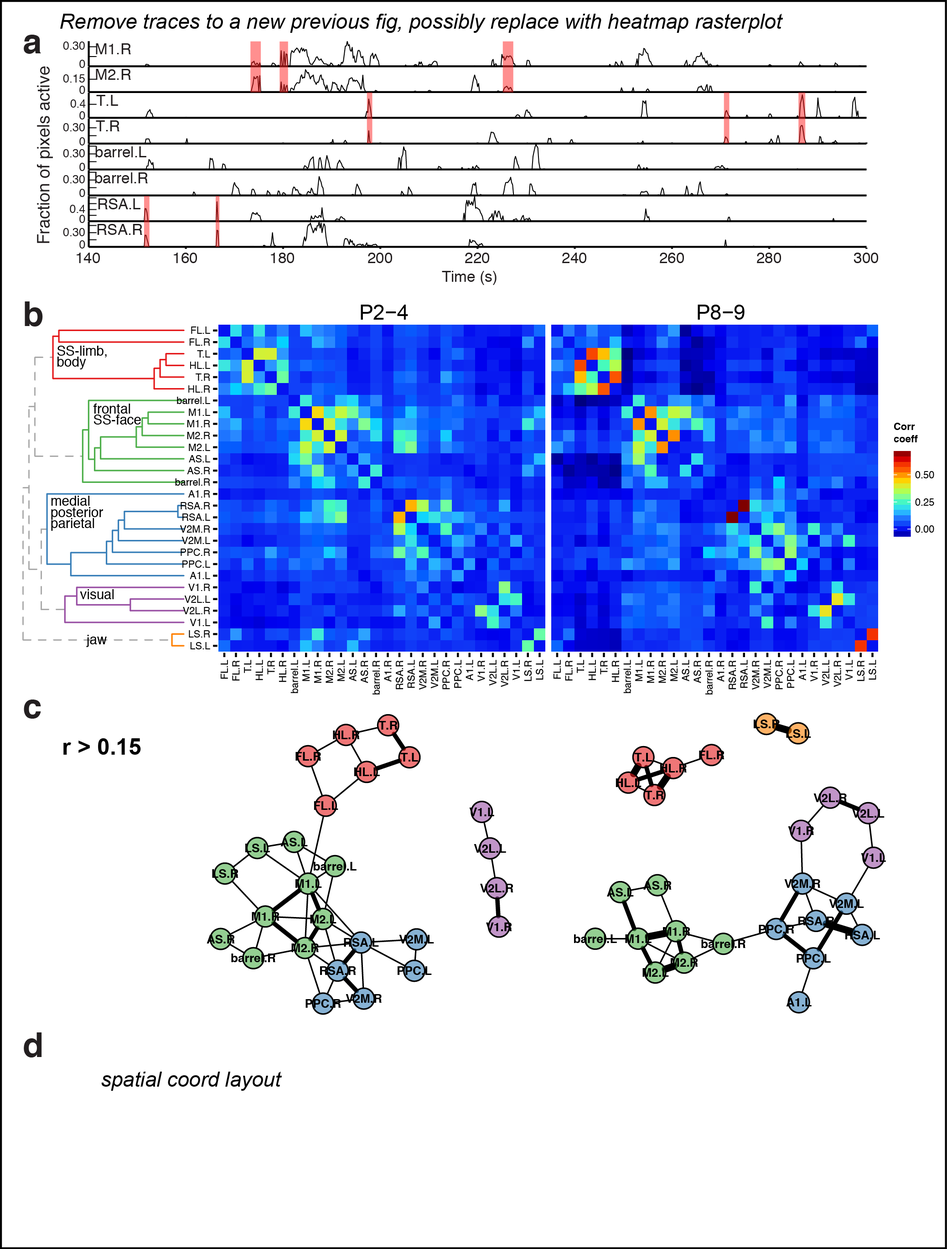
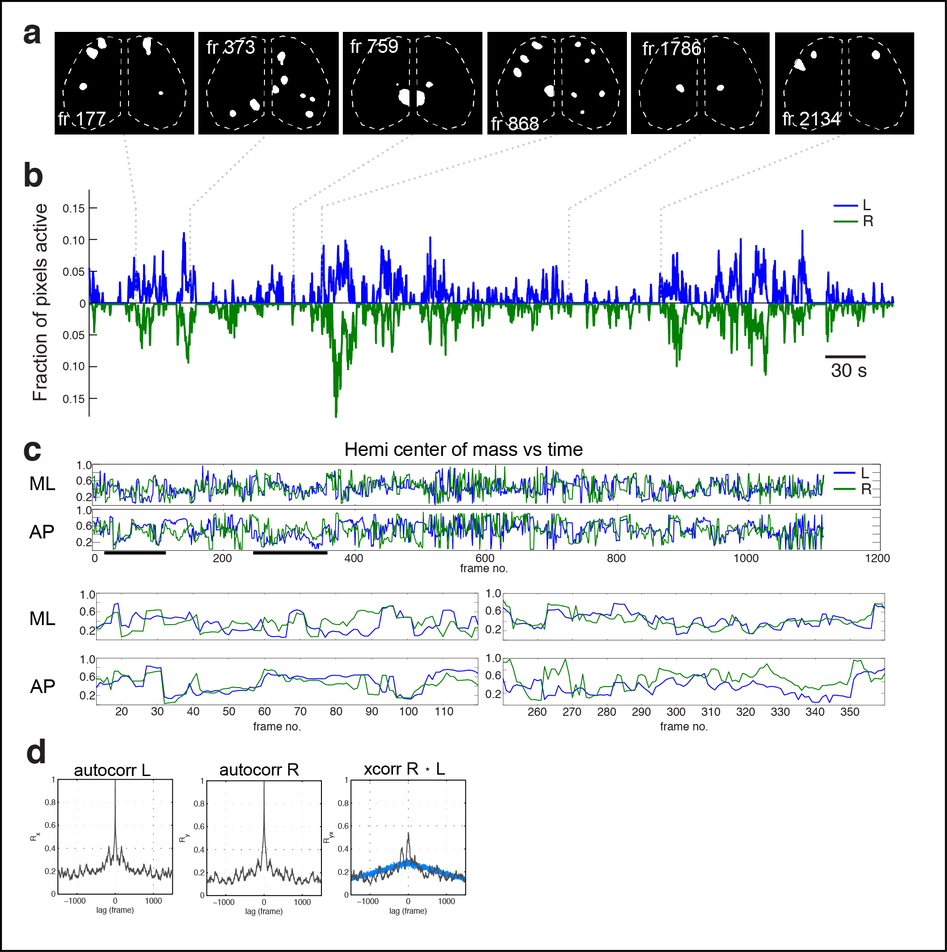
text, methods, suppl, readme, fig order edits

diff --git a/wholeBrain_main.md b/wholeBrain_main.md
@@ -1,44 +1,35 @@
 Author: James B. Ackman  
-Date: 2013-09-04 10:54:02  
+Date: 2014-06-05 00:38:46  
 Tags: paper, draft, manuscript, literature, research, #results, retinal waves, spontaneous activity, development, calcium domains  
 
 # Structured population activity across developing neocortex    
 
-# Abstract  
+**Authors and Affiliated Institutions:**  
+James B. Ackman¹, Hongkui Zeng², and Michael C. Crair¹  
+¹Department of Neurobiology, Yale University School of Medicine, New Haven CT, 06510  
+²Allen Institute for Brain Science, Seattle, Washington 98103, USA  
 
-The cerebral cortex exhibits spontaneous and sensory evoked patterns of activity during fetal and postnatal development that are crucial for the activity-dependent formation and refinement of circuits [#Katz:1996]. Knowing the source and flow of these activity patterns locally and globally is crucial to understanding self-organization in the developing brain. Here we show that neural population activity within newborn mice in vivo is characterized by spatially discrete domains that are coordinated in a state dependent and areal dependent fashion throughout developing isocortex. Whole brain optical recordings from neonatal mice expressing a genetic calcium reporter showed that ongoing activity in the cerebral cortex was characterized by distinct and repetitively active domains measuring hundreds of microns in diameter. Domain activity exhibited mirror-symmetric patterns between the hemispheres, with strong correlations between specific portions of frontal and parietal cortex. Ongoing activity across the cortical hemispheres showed characteristic network architectures with a frontal-motor regions functionally connected to a parietal-sensory areas through secondary motor cortex, retrosplenial cortex, and posterior parietal cortex. Furthermore, ongoing cortical activity was regulated by physiological state with frontal cortex activity shifting from negative to positive correlations with motor behavior during the course of development. This study provides the first comprehensive description of population activity in the developing isocortex at a scope and scale that bridges the microscopic or macroscopic spatiotemporal resolutions provided by traditional neurophysiological or neuroimaging techniques. Mesoscale maps of cortical population dynamics within animal models will be vital to engineering future repair strategies and brain-machine interfaces for neurodevelopmental disorders.
 
+# Summary  
 
-
+The cerebral cortex exhibits spontaneous and sensory evoked patterns of activity during fetal and postnatal development that are crucial for the activity-dependent formation and refinement of neural circuits [#Katz:1996]. Knowing the source and flow of these activity patterns locally and globally is crucial to understanding self-organization in the developing brain. Here we show that neural population activity within newborn mice in vivo is characterized by spatially discrete domains that are coordinated in a state dependent and areal dependent fashion throughout developing isocortex. Whole brain optical recordings from neonatal mice expressing a genetic calcium reporter showed that ongoing activity in the cerebral cortex was characterized by distinct and repetitively active domains measuring hundreds of microns in diameter. Domain activity exhibited mirror-symmetric patterns between the hemispheres, with strong correlations between specific portions of frontal and parietal cortex. Ongoing activity across the cortical hemispheres showed characteristic network architectures with a frontal-motor regions functionally connected to a parietal-sensory areas through secondary motor cortex, retrosplenial cortex, and posterior parietal cortex. Furthermore, ongoing cortical activity was regulated by physiological state with frontal cortex activity shifting from negative to positive correlations with motor behavior during the course of development. This study provides the first comprehensive description of population activity in the developing isocortex at a scope and scale that bridges the microscopic or macroscopic spatiotemporal resolutions provided by traditional neurophysiological or neuroimaging techniques. Mesoscale maps of cortical population dynamics within animal models will be vital to engineering future repair strategies and brain-machine interfaces for neurodevelopmental disorders.
 
 # Introduction  
 
-Brain development requires neural activity and calcium dynamics for establishing proper circuit structure and function. The importance of neural activity in the prenatal and neonatal period can be easily recognized in children exposed to chemical agents affecting neurotransmission during the fetal period that result in severe brain malformations, epilepsy, and mental retardation. Indeed, embryonic limb movements in species ranging from chick to human are thought to be initiated by spontaneous motor neuron activity in the spinal cord and thought to be crucial for activity-dependent development of motor synapses [Schoenberg:2003] [Marder,Lichtmann]. However it is only recently that we have begun to appreciate the underlying patterns of persistent neural activity that in fact exist in the developing brain in vivo. For example, sensori-motor feedback associated with spontaneous movement generated by spinal motor neurons triggers synchronized 'spindle-burst' potentials among cells in somatosensory cortex [Yang:2009][Khazipov:2004a] before the start of locomotion and tactile behavior. Correlated bursts of activity occur in the developing rat hippocampus in vivo [#Leinekugel:2002] [Mohns&Blumberg]. Spontaneous retinal waves drive patterned activation of circuits throughout the immature visual system before the onset of vision [#Ackman:2012] [Hanganu,Colonnese?]. Furthermore, prenatal EEG recordings have demonstrated spindle burst oscillations and slow activity transients in the human infant somatosensory and occipital cortices before birth [#Vanhatalo:2005][#Tolonen:2007]. Nonetheless, a comprehensive account of the structural dynamics of persistent activity throughout the developing isocortex in vivo has not been undertaken.
-
-
-
-
-
+Brain development requires neural activity and calcium dynamics for establishing proper circuit structure and function. The importance of neural activity in the prenatal and neonatal period can be easily recognized in children exposed to chemical agents affecting neurotransmission during the fetal period that result in severe brain malformations, epilepsy, and mental retardation. Indeed, embryonic limb movements in species ranging from chick to human are thought to be initiated by spontaneous motor neuron activity in the spinal cord and thought to be crucial for activity-dependent development of motor synapses [Schoenberg:2003] [Marder,Lichtmann]. However it is only recently that we have begun to appreciate the underlying patterns of persistent neural activity that exist in the developing brain in vivo. For example, sensori-motor feedback associated with spontaneous movement generated by spinal motor neurons triggers synchronized 'spindle-burst' potentials among cells in somatosensory cortex [Yang:2009][Khazipov:2004a] before the start of locomotion and tactile behavior. Correlated bursts of activity occur in the developing rat hippocampus in vivo [#Leinekugel:2002] [Mohns&Blumberg]. Spontaneous retinal waves drive patterned activation of circuits throughout the immature visual system before the onset of vision [#Ackman:2012] [Hanganu,Colonnese?]. Furthermore, prenatal EEG recordings have demonstrated spindle burst oscillations and slow activity transients in the human infant somatosensory and occipital cortices before birth [#Vanhatalo:2005][#Tolonen:2007]. However, a comprehensive account of the dynamical patterns of persistent activity across the developing isocortex in vivo has not been undertaken, largely because a method to assess neural activity between most cortical areas simultaneously and non-invasively has not been available.
 
 # Results
 
 ## Ongoing activity in developing neocortex is characterized by discrete domains
 
-Neocortical organization consists of cortical modules tiled across the cortical surface in a topographic fashion such that vertical arrays of cells concerned with specific sensory features are grouped together as columns [#Mountcastle:1997]. Most evidence to date suggests that columns/hyper/macro columns are 300-500µm diameter across species.
+We performed transcranial optical recordings from mice expressing the genetic calcium reporter GCaMP (GCaMP3 or GCaMP6) throughout cortical neurons to assess neural population activity patterns with high spatial resolution and at macroscopic scale. We performed our recordings in three age groups: P2-P5, P8-P9, and P12-13. Functional mesoscale optical imaging (fMOI) revealed that supracellular cortical activity patterns were characterized by discrete domains of activation (Fig. 1) [Supplementary Movie 1](../wholeBrain_blob/ackmanWholeBrainGcampP3.mov) during the first two postnatal weeks. These activity domains ranged from 200-800 µm in diameter (*Ns*, *fig*), with larger sized domains of activation in the visual cortex and motor cortex (*Ns*, *fig*). In the second postnatal week the size of cortical activity domains became larger in the frontal-motor and  S1-limb/body regions [Supplementary Movie 2](../wholeBrain_blob/ackmanWholeBrainImaging-lo.mov). 
 
-The patterns of activity that exist in the developing brain are unknown. We performed recordings from mice expressing the genetic calcium indicator GCaMP (gcamp3 or gcamp6) throughout cortical neurons. We performed our recordings in three age groups: P2-P5, P8-P9, and P12-13. We found that cortical activity was characterized by discrete domains of activation during the first two postnatal weeks. These activity domains ranged from 200-800 µm in diameter (*Ns*, *fig*), with larger sized domains of activation in the visual cortex and motor cortex (*Ns*, *fig*). In the second postnatal week the size of activations in the hindlimb/trunk representation was larger,   The average duration of these domain activations was about 600 ms – 1 s (*Ns*, *fig*) with longer activations on the order of seconds to tens of seconds in visual cortex driven by retinal waves [#Ackman:2012].  
-
-We parcellated the brain into distinct anatomical boundaries by using reference coordinates from a mouse line that expressed the tdtomato reporter in thalamocortical afferents. The expression can be used to parcellate out areal boundearies of primary sensory cortical areas (wong riley 1979).  We matched these parcellations to a Allen brain atlas adult mouse reference image and than linearly scaled the remaining parcellations in our FOV on to the images of our recordings that contain fucntional boundaries (like in the domain centroid activation plot and in the normalized domain frequency plots).
+The neocortex exhibits a characteristic columnar organization by  cortical macrocolumns tiled across the cortical surface that reflects a such that vertical arrays of cells concerned with specific sensory features are grouped together as columns [#Mountcastle:1997] in a topographic fashion . Most evidence to date suggests that cortical macrocolumns are 300-500µm diameter across species [mountcastle ref].
 
 
-* Cortical column (mini/hyper columns) history (20th century anatomists-- Lorente de No, Mountcastle, Hubel & Wiesel, rakic, etc). 
-* Column physiology-- Hubel and Wiesel. Rodent V1?
-* Developmental studies-- fetal monkey ODCs. 
-* Rodent barrels (early anatomical emergence from TC input, functional/physiological emergence?). 
-	* What is known about columns/domains in secondary/association/non-primary sensory representations? Rest of rodent S1 (non-barrel cortex?). 
-* Calcium domains of Yuste, Science 1992 paper. [#Yuste:1992]
-* Other slice calcium recordings, patch/gap junctions. In vivo physiology? (Not too many multisite electrode recordings in cortex, spatial resolution issue). 
-* Calcium imaging-- Konnerth 'waves' in Ent cortex [#Adelsberger:2005]. For visual cortex, domains activity in extrastriate cortex (Ackman Nature 2012). But S1-- [#Golshani:2009] work in later postnatal-- but activity not obeying domains in barrel cortex-- problem with spatial sampling in the xy and the z for this study?
+There was a significant effect of age and brain region on the duration of cortical domain activations (age: 2 Df, F=20.8078 , p < 1.273e-09; region: Df 14, F=25.3941, < 2.2e-16, Anova). Mean cortical domain duration across all regions increased from 1.34 ± 0.04 s at P2-5 (N=327 region-movies), to 1.49 ± 0.03 at P8-9 (N = 450), and then decreased to 1.22 ± 0.03 at P12-13 (N=570) (P2-5:P8-9, p = 0.0001504; P2-5:P12-13, p = 0.0000583; P8-9:P12-13, p < 2e-16).   cortical domain activations decreased over the course of development from , and this  (*Ns*, *fig*) There were longer activations on the order of seconds to tens of seconds in visual cortex driven by retinal waves [#Ackman:2012]. Long lasting wave-like activations also occured in motor cortex P2-5 (Fig 2 montage).
+
+We parcellated the brain into distinct anatomical boundaries by using reference coordinates from a mouse line that expressed the tdtomato reporter in thalamocortical afferents. The expression can be used to parcellate out areal boundaries of primary sensory cortical areas (wong riley 1979).  We matched these parcellations to a Allen brain atlas adult mouse reference image and than linearly scaled the remaining parcellations in our FOV on to the images of our recordings that contain fucntional boundaries (like in the domain centroid activation plot and in the normalized domain frequency plots).
 
 
 ![ **Figure 1.** Calcium domains throughout neonatal mouse isocortex. **a** Experimental schematic. **b** Single image frame showing calcium domains in both hemispheres at P3 and automatically detected domain masks. **c** Domain centroid positions for 10 min recording. Points are overlaid on a normalized pixel activation frequency map and primary sensory areas determined by thalamocortical inputs at P7 are outlined in red. Notice rows of whisker barrels are evident in the structure of domain centroid positions. **d** Functional activity map at P3. Based on pixel activation frequency from detected domains in a single 10 min recording. Map is overlaid on cortical areal parcellations. Notice localized maxima and minima of functional activity between areas that approximate known anatomical cortical area boundaries and the mirroring of map structure bilaterally. **e** Histograms showing the distribution of spatial diameters and durations for calcium domains. **f** Domain duration map.](figure1.png)
@@ -57,14 +48,10 @@ frequency     | 2.9   |      |        | domains/sec/hemisphere
 * Inter hemispheric functional connectivity, importance for autism, schizophrenia. Maybe an activity-dependent mechanism for commisural connectivity.
 * olavarria work, evidence for inter hemispheric activity dependence
 * [#Hanganu:2006], 30% of spindle bursts correlated across hemispheres
-* Activity correlated in anterior-posterior and medial-lateral directions
-* Mirror symmetric and non-mirror symmetric patterns
-* Regional effects, more corr anticorr in certain regions?
-* State dependent corr?
 
-To understand the patterns and how they interact we first looked at correlation between the hemispheres. Cortical activity exhibited high temporal cortelation between the hemispheres () . In additon this activity was highly correlated in the spatial dimension.  For example epochs of time would exhibit high correlation in the medial-lateral dimension or in the rostral-caudal dimension. This strength of correlation temporally and spatially increased between the hemsipheres with a function of age.
+To understand the patterns and how they interact we first looked at correlation between the hemispheres. Cortical activity exhibited high temporal correlation between the hemispheres () . In additon this activity was highly correlated in the spatial dimension.  We found that activity was correlated in anterior-posterior and medial-lateral directions. It exhibited mirror symmetric and non-mirror symmetric patterns. For example epochs of time would exhibit high correlation in the medial-lateral dimension or in the rostral-caudal dimension. This strength of correlation temporally and spatially increased between the hemsipheres with a function of age.
 
-<!--- * Each hemisphere 'training' the other one in preparation for behaviorally relevant sensory-motor imitations '[[mirror_neurons]]' hypothesis? --->
+<!-- * Each hemisphere 'training' the other one in preparation for behaviorally relevant sensory-motor imitations '[[mirror_neurons]]' hypothesis? -->
 
 ![ **Figure 2.** Cortical domain activity exhibits bilateral symmetry. **a** Examples of domains exhibiting spatially symmetric activations. Notice most timepoints contain a mixture of symmetric and asymmetric domain activations. **b** Cortical active fraction timecourses for both hemispheres. **c** Hemispheric domain centers of mass for coactive frames in a recording along medial-lateral (ML) and anterior-posterior (AP) extents. Bottom left panels show the periods indicated by black bars at expanded view. Pearson's correlation: ML, p = 1.1591e-28; AP, p = 7.0982e-07. **d** Hemispheric autocorrelation and cross-correlation functions for cortical activity at all and short time lags. Notice the peaks above gaussian distributed noise (blue traces).](figure2.png)
 
@@ -74,39 +61,33 @@ To understand the patterns and how they interact we first looked at correlation 
 
 The big secondary peaks around ±30 sec is present in both autocorrs and xcorrs and is far above the random normal xcorr baseline (blue trace). In fact there is a periodicity seen in the autocorrs and the xcorrs where there is a dampening oscillation about on this interval! (See ideal dampening frequency in random sine wave example above). This corresponds to a 1/30sec == 0.033 Hz ultra-slow oscillation.
 
-{==Looking at the above plot showing lags from [–1000, 1000] frames which is ± 200 s, we can see about 5.5 cycles of this underlying dampening oscillation in both autocorr plots. This corresponds to (1000fr*0.2sec/fr)/5.5 => 36.36 sec/cycle => 0.0275 cycles/sec or ~0.03 Hz==}{>>Crazy!<<}
+Looking at the above plot showing lags from [–1000, 1000] frames which is ± 200 s, we can see about 5.5 cycles of this underlying dampening oscillation in both autocorr plots. This corresponds to (1000fr*0.2sec/fr)/5.5 => 36.36 sec/cycle => 0.0275 cycles/sec or ~0.03 Hz
 
 **Conclusions:** So the activity in both hemispheres at postnatal day 3 (P3) clearly exhibits significant spatial correlations in  both in the medial-lateral and anterior-extent. This is consistent with and complementary to the fact that the active pixel fraction in each hemisphere exhibits a strong temporal correlation as I found earlier in this report [Temporal correlation of activity][]. The medial-lateral positional correlation is stronger than the anterior-posterior (higher *R* and lower *p* value).   The total number of coactive frames is `numel(y1(~isnan(y1)&~isnan(y2)))` == **1114 frames**. This is accounts to **37.13%** of the movie or **222.8 s**. Cortex.L had 1635 actvFrames and cortex.R had 1677 actvFrames which means that each hemisphere was coactive with the other hemisphere 1114/1635 == **68.13%** and 1114/1677 == **66.43%** of the active time respectively. 
 
 
 
 
+## Cortical domain activity is state dependent
+
+* Previously demonstrated that general anesthesia abolishes spontaneous activity in visual system [#Ackman:2012]. 
+* During anesthesia induction, there is rapid (<30 s) knock down of discrete domain activity (P3 mouse <120518_09.tif>) at all ages. Cingulate, retrosplenial activations the last to go-- 
+* No population calcium activity found during gen'l anesthesia in neonates. Altered spontaneous patterns in older mice.
+default mode/resting state network areas last.
+<120518_09_mjpeg.mov>
+
+Variation in the strength of correlation between cortical areas and the motor movement signal depended on brain region (p < 2.2e-16, anova) and age (p = 1.627e-05, anova)  The first age group in which motor cortex exhibited signficant positive correlation with motor movements was at P12-13 (r=0.06±0.02, p-value = 0.001449, t-test).
+
+![ **Figure 3**. Cortical domains are state dependent. **a** Experimental schematic. Red light illumination measured with a photodiode (PD) was used to monitor motor activity. **b** Cortical activity (active fraction) in each hemisphere after onset of gas anesthetic. **c** Cortical activity and coincident motor activity signals. Gray shading indicates active and quiet motor periods determined by the half-rise and decay times from peak in the low pass filtered motor signal. Active pixel fraction traces for motor (M1,M2), somatosensory (HL,FL,T; barrel), and visual (V1,V2) cortex shown at bottom of panel. Red links show synchronized motor movements and brain activity with different cortical regions. **d** Single frame domain masks for times indicated in **c**. **e** Pixel activation frequency maps during quiet and active motor periods. **f** Cross-correlation functions between cortical regions and motor movement signals. Notice the general negative correlation between motor activity and all cortex activity signals (r = , p = ) and the high positive correlation between motor and S1-limb/body signals (r = 0.3019, p < 2.2e-16).](figure3.png)
+
+Low pass filtered Moving averages of cortical and motor activity at 10 s and >70 s windows. 
 
 
-### Percentage of cortical activity which exhibits corr with motor signal?
+Percentage of cortical activity which exhibits corr with motor signal:  
 
 lenActvFraction>0 | fracCorr | timeCorr_s | fracCorrPos | timeCorrPos_s | fracCorrNeg | timeCorrNeg_s
  --- | --- | --- | --- | --- | --- | ---
 2161 | 0.30032 | 129.8 | 0.27441 | 118.6 | 0.025914 | 11.2
-
-
-
-
-## Cortical domain activity is state dependent
-
-* EEG slow oscillations not detectable until P10 in rodent.
-* Previously demonstrated that general anesthesia abolishes spontaneous activity in visual system [#Ackman:2012]. 
-* What about ongoing activity in other cortical areas during early brain development? Surgical procedure relevance.
-* No population calcium activity found during gen'l anesthesia, only slow traveling waves.
-* During anesthesia induction, there is rapid (<30 s) knock down of discrete domain activity (P3 mouse <120518_09.tif>). Cingulate, retrosplenial activations the last to go-- default mode/resting state network areas last.
-<120518_09_mjpeg.mov>
-
-
-Variation in the strength of correlation between cortical areas and the motor movement signal depended on brain region (p < 2.2e-16, anova) and age (p = 1.627e-05, anova)  The first age group in which motor cortex exhibited signficant positive correlation with motor movements was at P12-13 (r=0.06±0.02, p-value = 0.001449, t-test).
-
-![ **Figure 3**. Cortical domains are state dependent. **a** Experimental schematic. Red light illumination measured with a photodiode (PD) was used to monitor motor activity. **b** Cortical activity (active fraction) in each hemisphere after onset of gas anesthetic. **c** Cortical activity and coincident motor activity signals. Gray shading indicates active and quiet motor periods determined by the half-rise and decay times from peak in the low pass filtered motor signal. Active pixel fraction traces for motor (M1,M2), somatosensory (HL,FL,T; barrel), and visual (V1,V2) cortex shown at bottom of panel. Red links show synchronized motor movements and brain activity with different cortical regions. **d** Single frame domain masks for times indicated in **c**. **e** Autocorrelation and cross-correlation functions for motor and all cortical activity or just S1-limb/body and motor cortex regions. Notice the general negative correlation between motor activity and all cortex activity signals (r = -0.1368, p = 5.1919e-14) and the high positive correlation between motor and S1-limb/body signals (r = 0.3019, p = 2.7861e-64). **f** Pixel activation frequency maps during quiet and active motor periods.](figure3.png)
-
-Low pass filtered Moving averages of cortical and motor activity at 10 s and >70 s windows. 
 
 
 
@@ -117,7 +98,7 @@ We then calculated a matrix of pearsons correlation coefficients based on the pi
 We found many similarities but some striking differences as a function of age.
 
 
-![ **Figure 4.** Subnetworks in developing isocortex. **a** Areal trace examples. Synchronized activations between hemispheres indicated by red links. **b** Correlation matrix of domain activity among cortical areas. Colormap indicates Pearson's r correlation coefficient values. **c** Map of cortical area associations for r > 0.2. **d** Graph of functional connections for r > 0.1. Community structure detected with hierarchical clustering are indicated in 4 colors. Notice that S1-limb/body regions form a distinct subgraph (green).](figure4.png)
+![ **Figure 4.** Subnetworks in developing isocortex. **a** Correlation matrix of domain activity among cortical areas. Colormap indicates Pearson's r correlation coefficient values. **b** Graph of functional connections for r > 0.15. Community structure detected with hierarchical clustering are indicated in 4 colors. Notice that S1-limb/body regions form a distinct subgraph (red). **c** Map of cortical area associations for r > 0.1.](figure4.png)
 
 
 
@@ -128,44 +109,53 @@ We found many similarities but some striking differences as a function of age.
 
 * Neural population activity constitutes discrete spatial and temporal activations among developing cortical areas
 * Cortical activity exhibits symmetrical spatial and temporal activations across the hemispheres
-* Developing cerebral networks comprise distinct functional modules among cortical areas 
 * Cortical activity is coordinated with motor behavioral state in an areal dependent fashion
-* 
+* Developing cerebral networks comprise distinct functional modules among cortical areas 
+
+* **Ongoing activity in developing cortex is not random** -- it is coordinated in space and time within and between the hemispheres among cortical areas
+* Functional mesoscale imaging technique as a template for assessing altered functional dynamics in models for neurological disorders
 
 
-* Population activity in developing cortex is not random-- it exhibits distinct structure in space and time.
+# Methods Summary
 
-* **Ongoing activity in developing cortex is not random**-- specifically coordinated in space and time within and among cortical areas between the hemispheres
-* ~~BRAIN initiative (for cover letter to the editor)~~
-	- this work aids at least a couple of the 9 preliminary aims of the Brain project
-* template for assessing altered functional dynamics in models for neurological disorders
+Anesthetized Rx-Cre:GCaMP3 or SNAP25-GCaMP6 mice between postnatal day 2 to 13 (P2-P13) were were prepared for transcranial optical imaging. Calcium imaging was performed in vivo using wide-field epifluoresence microsopy using a DC-Hg2+ lamp, 1x macro objective, and pco.edge sCMOS camera after a 1 hour recovery period from general anesthesia. Calcium transients and waves were detected using custom MATLAB routines.
+
+**Full methods** and any associated references are available in the online version of the paper at www.nature.com/nature
+
+**Supplementary Information** is linked to the online version of the paper at www.nature.com/nature.
+
+**Acknowledgements** We thank Y. Zhang for technical support. We would like to thank members of the Crair lab for valuable comments on the manuscript. This work was supported by NIH grants P30 EY000785, R01 EY015788 to M.C.C. M.C.C. also thanks the family of William Ziegler III for their support.
+
+**Author Contributions** J.B.A. and M.C.C. designed the experiments. J.B.A. performed in vivo imaging experiments, wrote the movie and data analysis code, and analyzed the recordings. H.Z. created the GCaMP3 and GCaMP6 mouse lines. J.B.A. and M.C.C. wrote the manuscript.
+
+**Author Information** Reprints and permissions information is available at www.nature.com/reprints. The authors declare no competing financial interests. Correspondence and requests for materials should be addressed to J.B.A. (james.ackman@gmail.com) or M.C.C. (michael.crair@yale.edu).
 
 
 
-
-<!--- # References --->
+<<[methods.txt]
 <<[references.txt]
 
 
-<!--- # Metadata --->
-<!---Figure 1 metadata
+<!-- # Metadata -->
+
+<!--Figure 1 metadata
 * neonate_ms_fig.png
 * binary masks: Screen_Shot_2013-03-29_at_12.06.25_PM_crop.png, ..._crop1.png, ..._crop2.png
 * domain map: 120518_07_connComponents_BkgndSubtr-60px_noWatershed-20130327-151022_d2rdomainPatchesPlot20130912-111733.eps
 	* update 2013-10-03 11:07:29: 
 		* 120518_07_2013-09-11-225029_d2rImageCoords20130930-144657.ai
 			* created using area coords: 120518_07_2013-09-11-225029_d2rImageCoords20130930-144657.eps
-			* 120518_07_parcellation_fig.tif: alpha overlay of brightfield image with Allen gray parcellation image and Sert-tdtomato images linearly scaled to fit V1 & S1-barrel reprsentations in functional image and domain centroid map 
+			* 120518_07_parcellation_fig.tif: alpha overlay of brightfield image with Allen gray parcellation image and Sert-tdtomato images linearly scaled to fit V1 and S1-barrel reprsentations in functional image and domain centroid map 
 				* contourplot of 20 levels 120518_07_connComponents_BkgndSubtr-60px_noWatershed-20130327-151022_d2r_20130930-124942.eps
 				* 120518_07_connComponents_BkgndSubtr-60px_noWatershed-20130327-151022_d2r_20130930-124950_eps.png
 * hists: 120518_07_connComponents_BkgndSubtr60px-20130327-163111domains20130402-151440-crop.png
 
 * [x] add a domain centroid size/duration map similar to: ![](../figures/Screen_Shot_2013-04-03_at_8.42.49_AM.png)
 	* ![](../figures/Screen_Shot_2013-04-03_at_10.04.36_AM.png)
---->
+-->
 
 
-<!---Figure 2 metadata
+<!--Figure 2 metadata
 * binary mask snapshots, cropped from screen shots in [[2013-04-19_analysis]]
 	* Screen_Shot_2013-04-19_at_8.26.00_AM_fr1786.png
 	* Screen_Shot_2013-04-19_at_8.27.49_AM_fr2134.png
@@ -175,51 +165,34 @@ We found many similarities but some striking differences as a function of age.
 * Temporal correlation of activity between the hemispheres and preceding motor activation:  
 	* ![](../figures/Screen_Shot_2013-04-30_at_3.02.20_PM.png)
 * hemisphere active fraction traces: Screen_Shot_2013-04-08_at_8.47.19_AM.png
-* activefraction hemis AP & ML all: ![](../figures/Screen_Shot_2013-04-23_at_8.45.18_AM.png)  | 120518_07_connComponents_BkgndSubtr-60px_noWatershed-20130327-151022_d2ractiveFractionPixelLocaCorr20130423-094506.eps
-* activefraction hemis AP & ML segment: ![](../figures/Screen_Shot_2013-04-23_at_8.46.27_AM.png)
-* activefraction hemis AP & ML segment: ![](../figures/Screen_Shot_2013-04-23_at_8.51.55_AM.png)
+* activefraction hemis AP and ML all: ![](../figures/Screen_Shot_2013-04-23_at_8.45.18_AM.png)  | 120518_07_connComponents_BkgndSubtr-60px_noWatershed-20130327-151022_d2ractiveFractionPixelLocaCorr20130423-094506.eps
+* activefraction hemis AP and ML segment: ![](../figures/Screen_Shot_2013-04-23_at_8.46.27_AM.png)
+* activefraction hemis AP and ML segment: ![](../figures/Screen_Shot_2013-04-23_at_8.51.55_AM.png)
 ### Cortical activity correlated between the hemispheres and is periodic
-* hemi auto & xcorr:
+* hemi auto and xcorr:
 	* 2500fr lags: 120518_07_connComponents_BkgndSubtr-60px_noWatershed-20130327-151022activeFraction20130408-143100.eps
 	* 250fr lags:  120518_07_connComponents_BkgndSubtr-60px_noWatershed-20130327-151022activeFraction20130408-151655.eps
 	* 1500fr lags: 120518_07_2013-10-18_AllgoodactiveFraction20131023-145023.eps
---->
+-->
 
+<!--Figure 3 metadata 
+* Isoflurane traces:  
 
-<!---Figure 3 metadata
-* active fraction traces: 
-* corr matrix: orig: 120518_07_2013-09-11-225029_d2rcorrMatrix20130912-001431_fig.ai
-	* update 2013-10-03 11:04:39:
-		* 120518_07_2013-09-11-225029_d2rcorrMatrix20130930-111018.ai
-		* 120518_07_2013-09-11-225029_d2rcorrMatrix20130930-111018.eps
-	* update 2013-10-23 14:31:37:
-		* 120518_07_2013-10-18_AllgoodcorrMatrix20131018-154625.eps
-* corr graph: 
-	* 120518_07_2013-10-18_AllgoodCorrGraph20131021-144258.eps
---->
+* Cortical and photodiode signals and moving averages color coded at diff lags:  120518_07_2013-09-11-225029_d2r_motorSignalFiltFilt_fig.eps
 
-<!---Figure 4 metadata 
-* Isoflurane contour maps:
+* Pixel activation frequency map projections
+	* quiet motor state:  120518_07_connComponents_BkgndSubtr-60px_noWatershed-20130327-151022_d2rActivityMapFigContour20131016-163945-20131023_MotorQuiet_eps.png
+	* active motor state:  120518_07_connComponents_BkgndSubtr-60px_noWatershed-20130327-151022_d2rActivityMapFigContour20131016-163945-20131023_MotorActive_eps.png
 
-### Cortical activity and motor activity is periodic
-* Moving average signals color coded at diff lags:
-	* 120518_07_2013-09-11-225029_d2r_motorSignalFiltFilt.eps
-	* 120518_07_2013-09-11-225029_d2r_motorSignalFiltFilt.png
-	* 120518_07_2013-09-11-225029_d2r_motorSignalFiltFilt_fig.eps
+* xcorr traces for cortical activity and motor activity:  120518_07_20140604-151545_d2rmotorSignalXCorr20140604-152316.eps  
+120518_07_20140604-151545_d2rmotorSignalXCorr20140604-152321.eps  
 
-### Cortical activity is correlated with the motor signal
-* Rho and pvalues whole trace: ![](../figures/Screen_Shot_2013-04-25_at_5.18.36_PM.png)
-* Rho and pvalues subset trace: ![](../figures/Screen_Shot_2013-04-25_at_3.59.05_PM.png)
+* xcorr lags matrix for cortical activity and motor activity:  motorXcorrLags_20140602-161719.eps
+-->
 
-### Cross-correlation of cortical activity and motor activity
-* auto, xcorr for whole:  
-	* 120518_07_connComponents_BkgndSubtr-60px_noWatershed-20130327-151022_d2rmotorSignalXCorr20130912-092426.eps
-* auto, xcorr during motor period:  
-	* 120518_07_connComponents_BkgndSubtr-60px_noWatershed-20130327-151022_d2rmotorSignalXCorr20130912-093834.eps
-* pixel activation frequency map projections: 
-	* quiet motor state: 
-		* 120518_07_connComponents_BkgndSubtr-60px_noWatershed-20130327-151022_d2rActivityMapFigContour20131016-163945-20131023_MotorQuiet_eps.png
-	* active motor state:
-		* 120518_07_connComponents_BkgndSubtr-60px_noWatershed-20130327-151022_d2rActivityMapFigContour20131016-163945-20131023_MotorActive_eps.png
---->
+<!--Figure 4 metadata
+* corr matrix: MeanCorrMatrix-age-2014-06-02.ai, (140602-113013-age.g-groupCorrMatrix.pdf, 140602-112947-dendr-ageP12-13.pdf)
+* corr graph force layout: 140602-101610-P12-13_0.15.pdf
+* corr graph spatial layout: 140602-100049-P12-13_0.15.pdf
+-->
 

diff --git a/README.md b/README.md
@@ -26,6 +26,7 @@ Indeed one of the fundamental goals of the BRAIN Initiative funded by NIH, NSF, 
 
 reference                              | FOV info                                                                                                                                                                  | figure snapshot                                       
 -------------------------------------- | ------------------------------------------------------------------------------------------------------------------------------------------------------------------------- | ------------------------------------------------------  
+[Yuste et al.][#Yuste:1992]            | calcium imaging in tangential slices of barrel cortex L4 from P4-5 rats in figure2, and from somatosensory, visual and frontal cortices in general with coronal or tangential slices from P0-7. **500 x 575 µm FOV**. Mean domain size was 96 µm. 50 -120µm range. 'We found no differences in the size, shape, or frequency of domains in different cortical areas.'                               | ![](assets/img/yuste1992-fig2.png)
 [Chiu & Weliky][#Chiu:2001]            | linear MEA covering a **3.2 mm strip** across visual cortex Corr activity observed between cortical patches separated by mean distance of 1 mm                            | ![](assets/img/Screen_Shot_2013-09-04_at_2.16.02_PM.png)
 [Hanganu et al][#Hanganu:2006]         | single electrodes or 4 shank linear MEAs placed in each hemisphere (0.5-1.0mm spacing, for **1.5-3.0mm total**)                                                           | ![](assets/img/Screen_Shot_2013-09-04_at_2.36.18_PM.png)
 [Adelsberger et al][#Adelsberger:2005] | optical fiber implant for freely moving neonatal mice with bulk loading, 400µm diameter FOV imaged in TeA or Ent                                                         | ![](assets/img/Screen_Shot_2013-09-04_at_4.43.51_PM.png)
@@ -36,7 +37,7 @@ reference                              | FOV info                               
 [Leinekugel et al][#Leinekugel:2002]   | P4-6 rat hippocampus, cortex, 8 tip linear MEA (tungsten wires), 100-300µm vertical tip separation                                                                       | ![](assets/img/Screen_Shot_2013-09-04_at_4.00.40_PM.png)
 [Khazipov et al][#Khazipov:2004a]      | P1-6 rat somatosensory cortex, single electrode MUA and PC                                                                                                                | ![](assets/img/Screen_Shot_2013-09-04_at_4.10.07_PM.png)
 [Yang et al][#Yang:2009]               | 4x4 linear MEA 200µm spacing, **600µm total**, bilaterally in S1 barrel cortex                                                                                          | ![](assets/img/Screen_Shot_2013-09-04_at_3.54.37_PM.png)
-[Yang et al][#Yang:2012a]              | **2.6 x 2.6 mm FOV**, VSD imaging in S1 cortex P0-7 rat. Spont and evoked activity in C2 barrel. 8shank x 4site silicon probe linear MEA (200µm separation, 1.4mm total) | ![](assets/img/Screen_Shot_2013-09-04_at_2.26.32_PM.png)
+[Yang et al][#Yang:2012a]              | **2.6 x 2.6 mm FOV**, VSD imaging in S1 cortex P0-7 rat. Spont and evoked activity in C2 barrel. 8shank x 4site silicon probe linear MEA (200µm separation, 1.4mm total). Activations were 300-400µm diam and 70% synchronized 1-2 barrel columns wide from P0-7. At P7 there was sig incr in activations synch >6 barrel columns. | ![](assets/img/Screen_Shot_2013-09-04_at_2.26.32_PM.png)
 [Golshani et al][#Golshani:2009]       | 2P-MCI in mouse S1 **478 x 186 µm FOV**                                                                                                                                  | ![](assets/img/Screen_Shot_2013-09-04_at_4.13.14_PM.png)
 monkey and human                       | EEG performed prenatally [#Vanhatalo:2005][#Tolonen:2007], no fMRI prenatally, (or infant?) but has been done in children for resting state connectivity                  |                                                         
 
@@ -86,15 +87,6 @@ For example:
 * Other slice calcium recordings, patch/gap junctions. In vivo physiology? (Not too many multisite electrode recordings in cortex, spatial resolution issue). 
 * Calcium imaging-- Konnerth 'waves' in Ent cortex [#Adelsberger:2005]. For visual cortex, domains activity in extrastriate cortex (Ackman Nature 2012). But S1-- [#Golshani:2009] work in later postnatal-- but activity not obeying domains in barrel cortex-- problem with spatial sampling in the xy and the z for this study?
 
-### Cortical domain activity is state dependent
-
-* EEG slow oscillations not detectable until P10 in rodent.
-* Previously demonstrated that general anesthesia abolishes spontaneous activity in visual system [#Ackman:2012]. 
-* What about ongoing activity in other cortical areas during early brain development? Surgical procedure relevance.
-* No population calcium activity found during gen'l anesthesia, only slow traveling waves.
-* During anesthesia induction, rapid (<30 s) knock down of discrete domain activity (P3 mouse <120518_09.tif>). Cingulate, retrosplenial activations the last to go-- default mode/resting state network areas last.
-<120518_09_mjpeg.mov>
-
 ### Cortical activity is mirrored between the hemispheres
 
 * Inter hemispheric functional connectivity, importance for autism, schizophrenia. Maybe an activity-dependent mechanism for commisural connectivity.
@@ -104,6 +96,15 @@ For example:
 * Mirror symmetric and non-mirror symmetric patterns
 * Regional effects, more corr anticorr in certain regions?
 * State dependent corr?
+
+### Cortical domain activity is state dependent
+
+* EEG slow oscillations not detectable until P10 in rodent.
+* Previously demonstrated that general anesthesia abolishes spontaneous activity in visual system [#Ackman:2012]. 
+* What about ongoing activity in other cortical areas during early brain development? Surgical procedure relevance.
+* No population calcium activity found during gen'l anesthesia, only slow traveling waves.
+* During anesthesia induction, rapid (<30 s) knock down of discrete domain activity (P3 mouse <120518_09.tif>). Cingulate, retrosplenial activations the last to go-- default mode/resting state network areas last.
+<120518_09_mjpeg.mov>
 
 ### Conclusions
 
